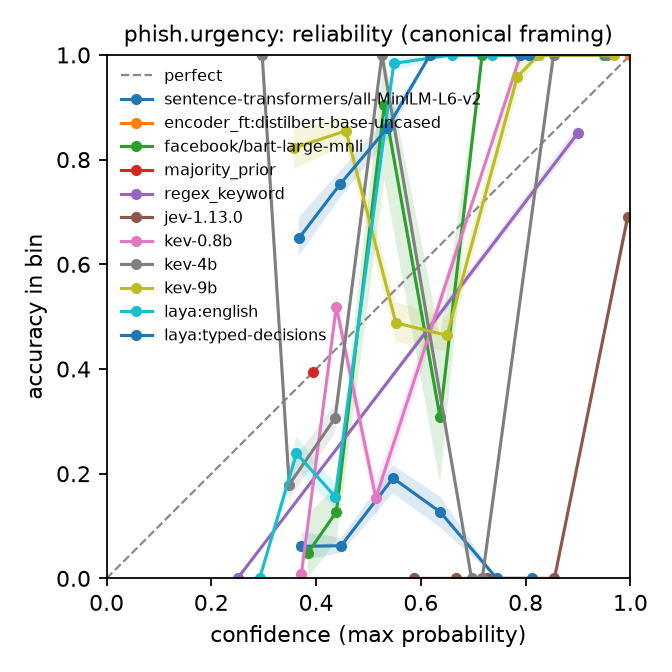
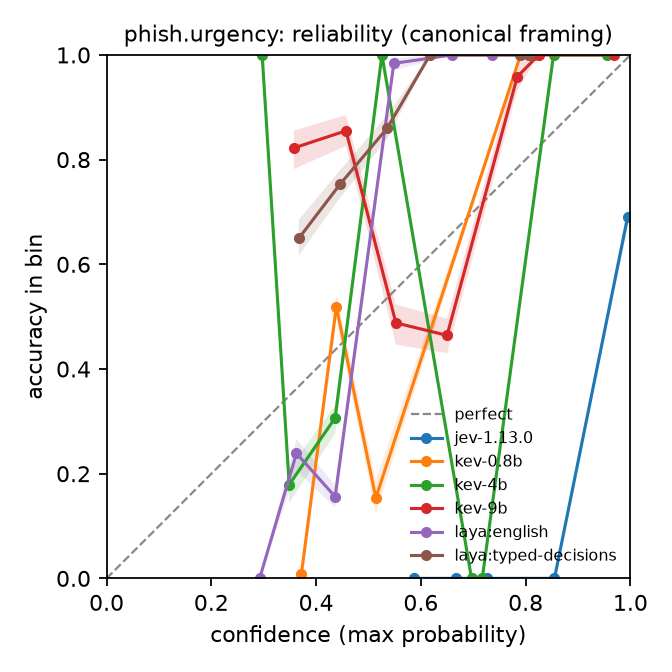
plots --include filter; README figures limited to the System One checkpoints

diff --git a/src/sys1bench/cli.py b/src/sys1bench/cli.py
@@ -295,7 +295,8 @@ def robustness(out: Path, adapter: Optional[str] = None, model: Optional[str] = 
 
 
 @app.command()
-def plots(results_dir: Path, out: Optional[Path] = None, questions: str = "tickets.queue,tickets.is_angry,tickets.priority,phish.is_phishing,phish.attack_class,phish.urgency"):
+def plots(results_dir: Path, out: Optional[Path] = None, questions: str = "tickets.queue,tickets.is_angry,tickets.priority,phish.is_phishing,phish.attack_class,phish.urgency",
+          include: Optional[str] = typer.Option(None, help="comma-separated substrings; only model ids matching one of them are drawn")):
     """Render reliability diagrams, risk-coverage curves and framing-range charts for every model dir under results_dir."""
     from .report.plots import framing_range_plot, reliability_diagram, risk_coverage_plot
     from .report.scorecard import framing_scorecard
@@ -315,6 +316,8 @@ def plots(results_dir: Path, out: Optional[Path] = None, questions: str = "ticke
             if not rows:
                 continue
             label = rows[0].model_id
+            if include and not any(tok.strip().lower() in label.lower() for tok in include.split(",")):
+                continue
             by_model[label] = [r for r in rows if r.permutation_id == "p0" and r.framing_id == "f0"]
             acc_by_model[label] = framing_scorecard(rows)["accuracy_by_framing"]
         if not by_model:
